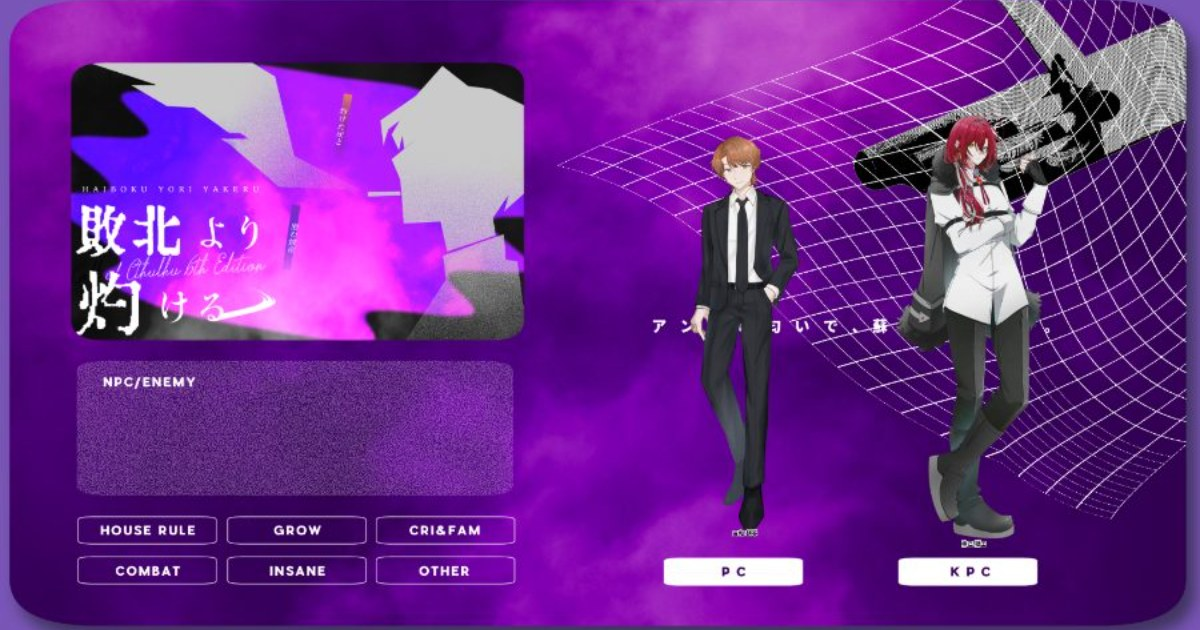
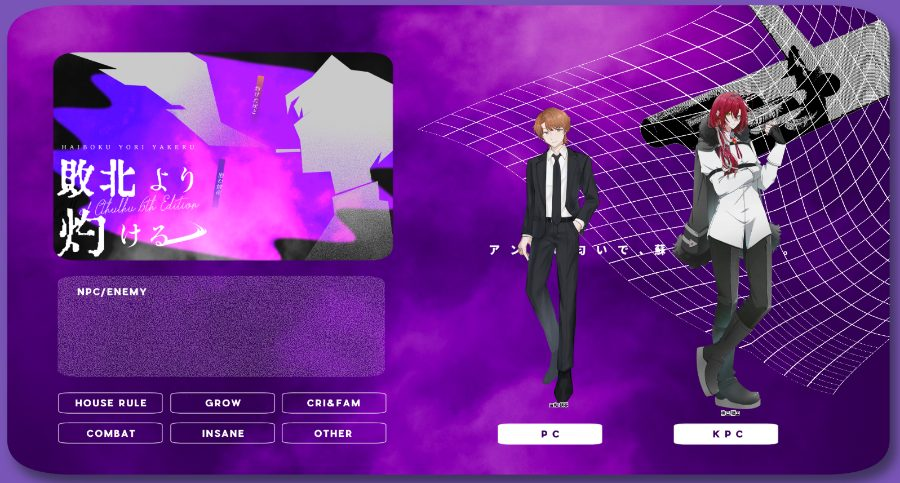
share pages (1)

diff --git a/share/cmw9ct3tq3gn.html b/share/cmw9ct3tq3gn.html
@@ -9,7 +9,7 @@
 <meta property="og:title" content="敗北より灼ける#2">
 <meta property="og:description" content="KP / 2026年11月9日 / 両生還">
 <meta property="og:url" content="https://8i10.github.io/EiThiophile/share/cmw9ct3tq3gn.html">
-<meta property="og:image" content="https://8i10.github.io/EiThiophile/share/cmw9ct3tq3gn.jpg?v=1794234479538">
+<meta property="og:image" content="https://8i10.github.io/EiThiophile/share/cmw9ct3tq3gn.jpg?v=1794234481709">
 <meta name="twitter:card" content="summary_large_image">
 <meta http-equiv="refresh" content="0; url=../report.html?card=cmw9ct3tq3gn">
 </head>
